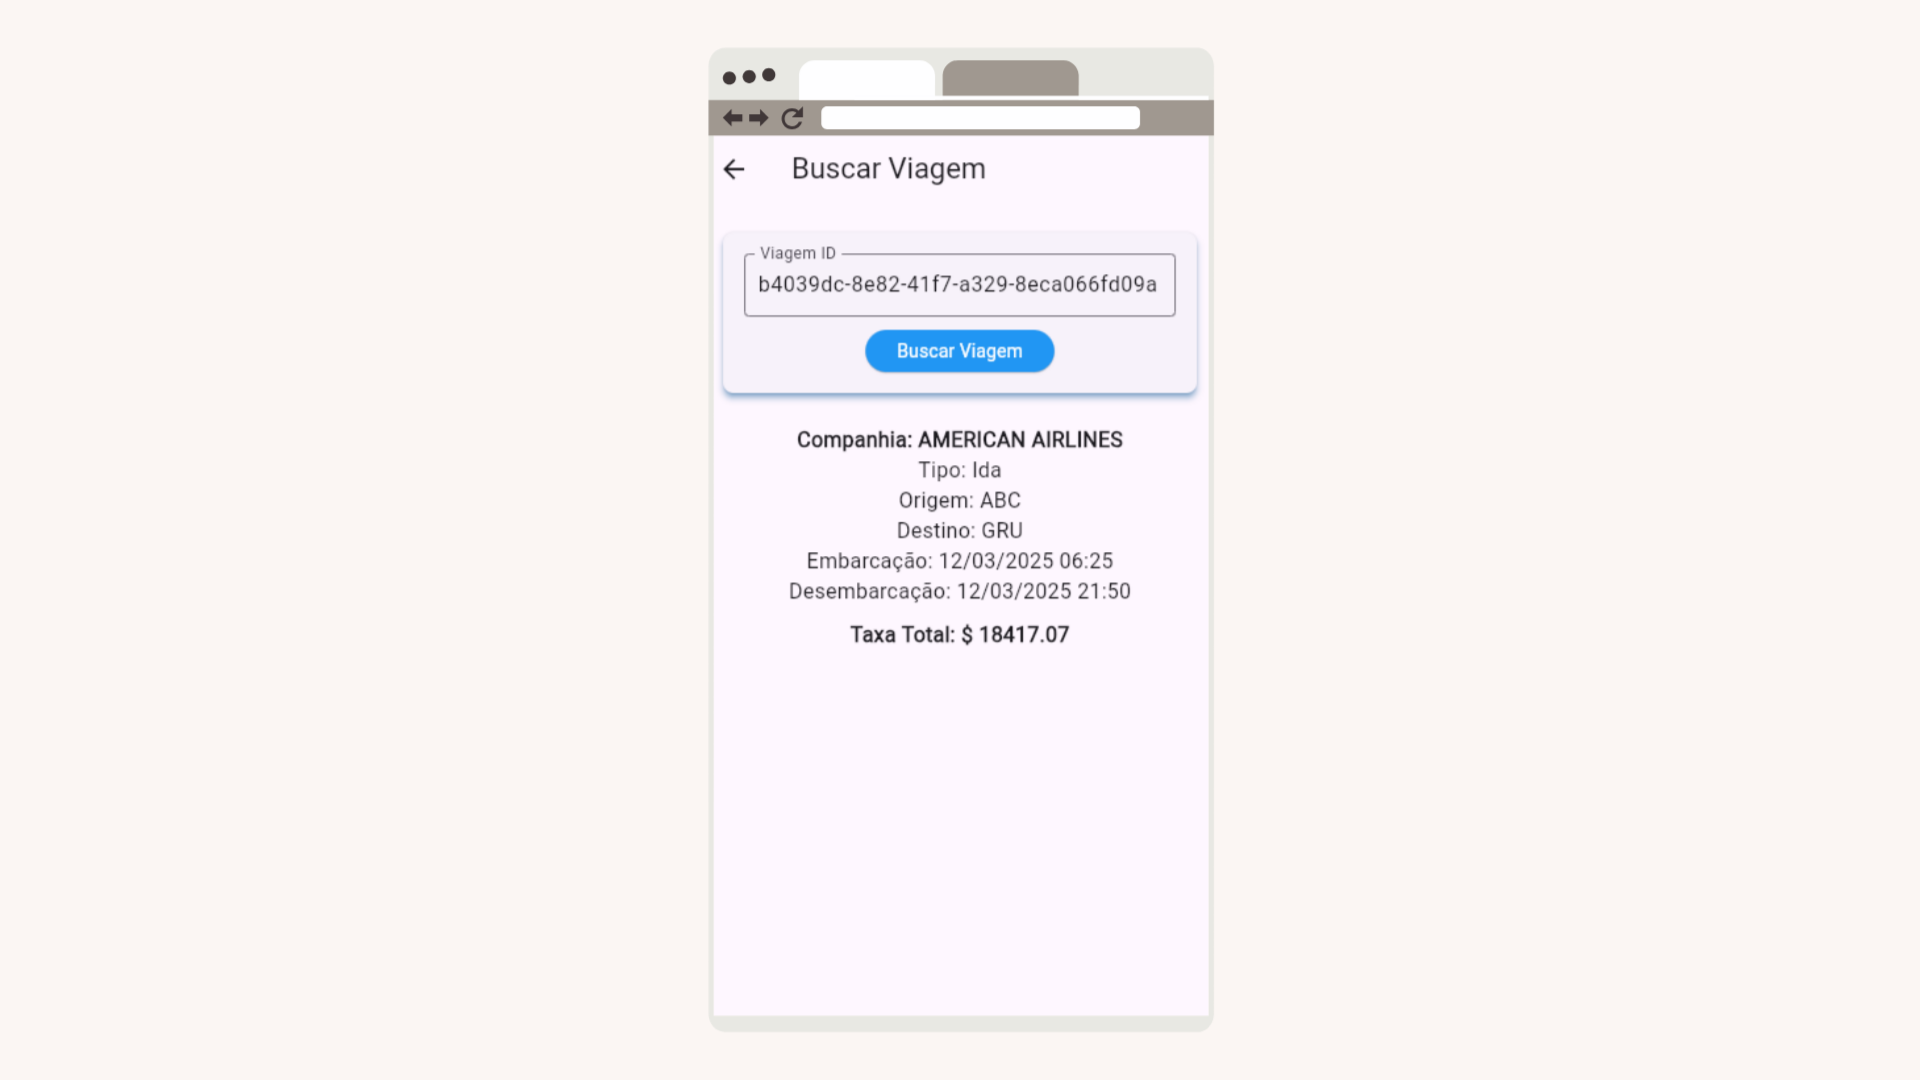
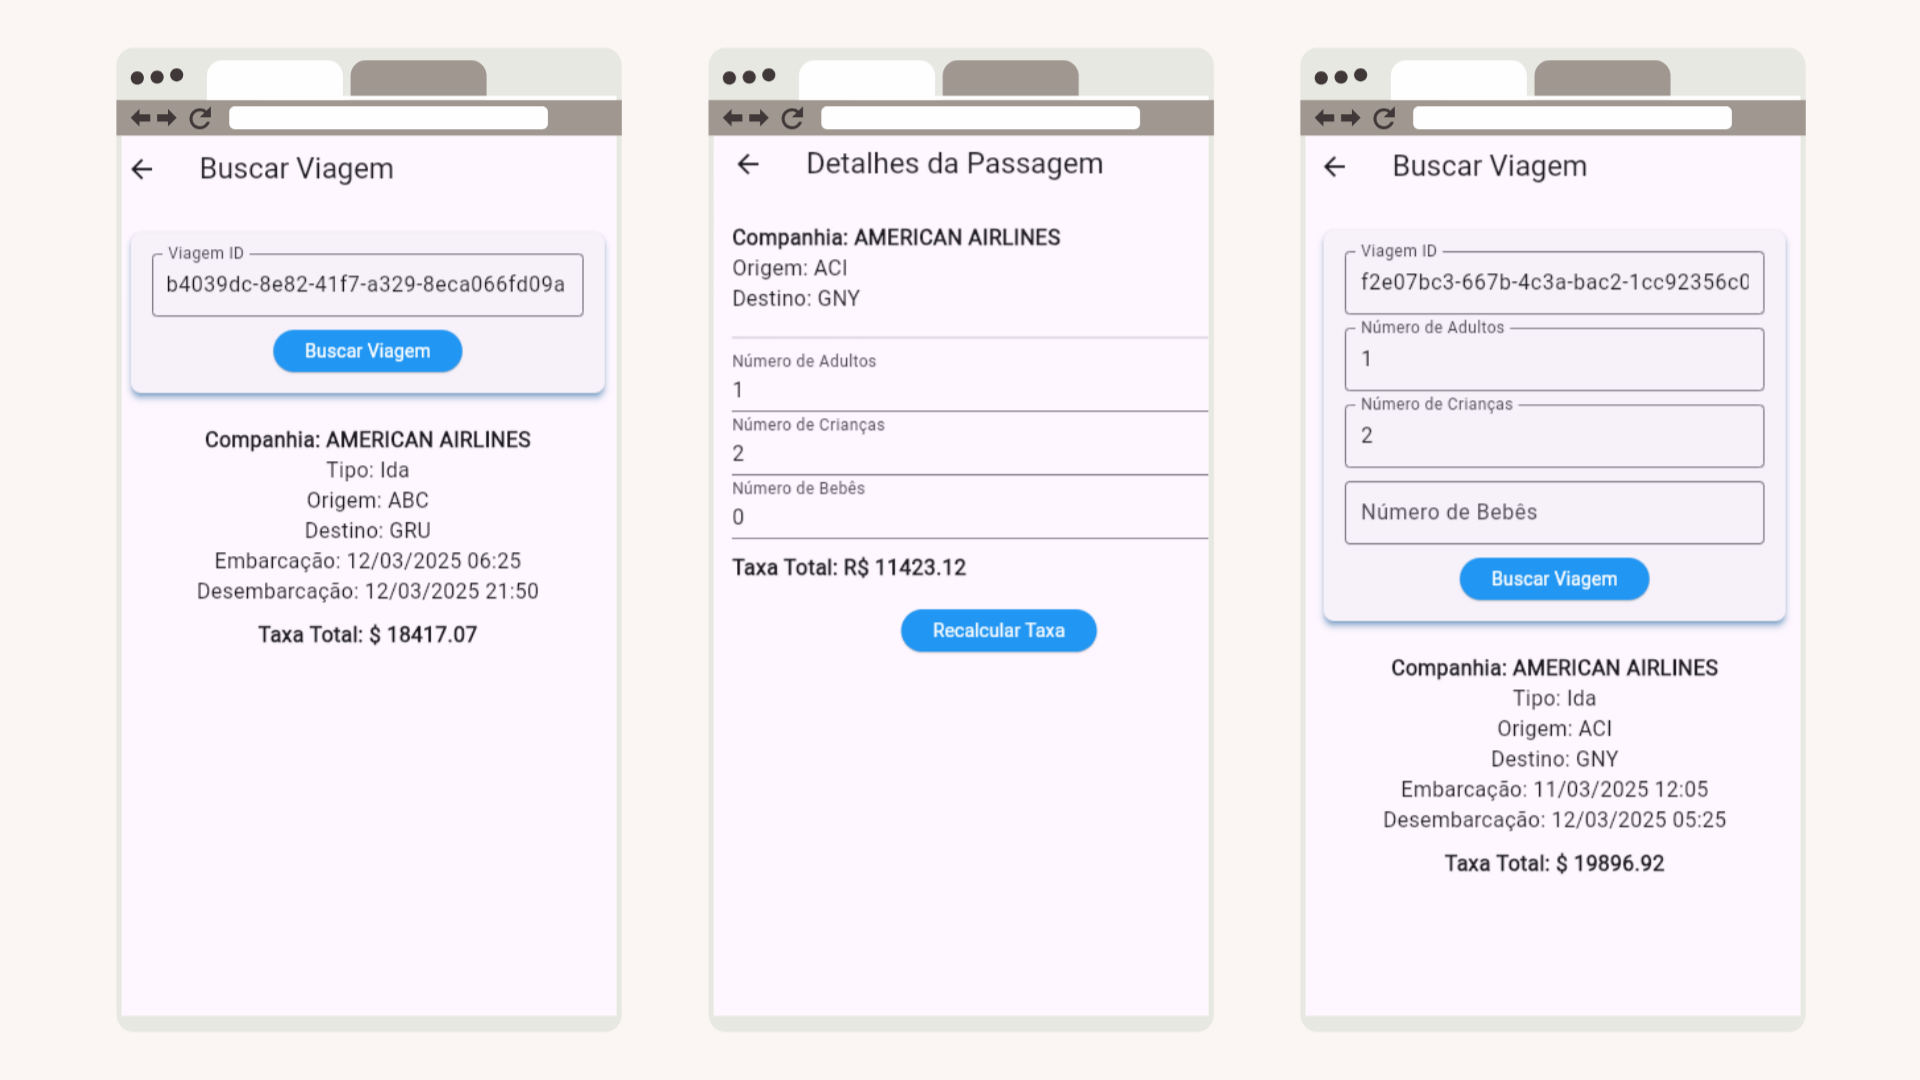
feat: implements calculate tax corrections and new fly page

diff --git a/lib/pages/ticket_page.dart b/lib/pages/ticket_page.dart
@@ -1,0 +1,139 @@
+import 'package:flutter/material.dart';
+import "../services/search_service.dart";
+import "../helpers/search_helper.dart";
+
+class TicketPage extends StatefulWidget {
+  final String travelId;
+
+  TicketPage({required this.travelId});
+
+  @override
+  _TicketPageState createState() => _TicketPageState();
+}
+
+class _TicketPageState extends State<TicketPage> {
+  Map<String, dynamic>? travel;
+  String? errorMessage;
+  double? totalTax;
+
+  final TravelService _travelService = TravelService(baseUrl: "https://buscamilhas.mock.gralmeidan.dev");
+
+  final TextEditingController _adultsController = TextEditingController(text: "1");
+  final TextEditingController _childrenController = TextEditingController(text: "0");
+  final TextEditingController _babiesController = TextEditingController(text: "0");
+
+  @override
+  void initState() {
+    super.initState();
+    _searchTravel();
+  }
+
+  Future<void> _searchTravel() async {
+    setState(() {
+      travel = null;
+      errorMessage = null;
+      totalTax = null;
+    });
+
+    try {
+      final response = await _travelService.fetchFirstItem(widget.travelId);
+
+      if (response != null) {
+        setState(() {
+          travel = response;
+          _adultsController.text = '1'; 
+          _childrenController.text = '0';
+          _babiesController.text = '0';
+          _calculateTotalTax();
+        });
+      } else {
+        setState(() {
+          errorMessage = "Erro: resposta da viagem é nula.";
+        });
+      }
+    } catch (e) {
+      setState(() {
+        errorMessage = "Erro ao buscar detalhes da viagem: ${e.toString()}";
+      });
+    }
+  }
+
+  void _calculateTotalTax() {
+    if (travel == null) return;
+
+    int numAdults = int.tryParse(_adultsController.text) ?? 1;
+    int numChildren = int.tryParse(_childrenController.text) ?? 0;
+
+    
+    var valor = travel!['Valor']?[0] ?? {};
+    
+    double valorAdulto = valor['Adulto'] ?? 0;
+    double valorCrianca = valor['Crianca'] ?? 0;
+    double taxaEmbarque = valor['TaxaEmbarque'] ?? 0;
+
+    double total = (valorAdulto * numAdults) + (valorCrianca * numChildren) + (taxaEmbarque * (numAdults + numChildren));
+
+    setState(() {
+      totalTax = total;
+    });
+  }
+
+  @override
+  Widget build(BuildContext context) {
+    return Scaffold(
+      appBar: AppBar(title: Text('Detalhes da Passagem')),
+      body: Padding(
+        padding: EdgeInsets.all(16.0),
+        child: travel == null
+            ? Center(child: errorMessage != null ? Text(errorMessage!, style: TextStyle(color: Colors.red)) : CircularProgressIndicator())
+            : Column(
+                crossAxisAlignment: CrossAxisAlignment.start,
+                children: [
+                  Text("Companhia: ${travel!['Companhia']}", style: TextStyle(fontSize: 16, fontWeight: FontWeight.bold)),
+                  Text("Origem: ${travel!['Origem']}", style: TextStyle(fontSize: 16)),
+                  Text("Destino: ${travel!['Destino']}", style: TextStyle(fontSize: 16)),
+                  SizedBox(height: 10.0),
+                  Divider(),
+
+                  TextField(
+                    controller: _adultsController,
+                    keyboardType: TextInputType.number,
+                    decoration: InputDecoration(labelText: 'Número de Adultos'),
+                    onChanged: (value) => _calculateTotalTax(),
+                  ),
+                  TextField(
+                    controller: _childrenController,
+                    keyboardType: TextInputType.number,
+                    decoration: InputDecoration(labelText: 'Número de Crianças'),
+                    onChanged: (value) => _calculateTotalTax(),
+                  ),
+                  TextField(
+                    controller: _babiesController,
+                    keyboardType: TextInputType.number,
+                    decoration: InputDecoration(labelText: 'Número de Bebês'),
+                    onChanged: (value) => _calculateTotalTax(),
+                  ),
+
+                  SizedBox(height: 10.0),
+                  Text(
+                    "Taxa Total: R\$ ${totalTax?.toStringAsFixed(2) ?? '0.00'}",
+                    style: TextStyle(fontSize: 16, fontWeight: FontWeight.bold),
+                  ),
+                  SizedBox(height: 20.0),
+                  
+                  Center(
+                    child: ElevatedButton(
+                      style: ElevatedButton.styleFrom(
+                        backgroundColor: Colors.blue,
+                        foregroundColor: Colors.white,
+                      ),
+                      onPressed: _searchTravel,
+                      child: Text('Recalcular Taxa'),
+                    ),
+                  ),
+                ],
+              ),
+      ),
+    );
+  }
+}

diff --git a/lib/pages/search_page.dart b/lib/pages/search_page.dart
@@ -9,6 +9,10 @@ class SearchPage extends StatefulWidget {
 
 class _SearchPageState extends State<SearchPage> {
   final TextEditingController _idController = TextEditingController();
+  final TextEditingController _adultsController = TextEditingController();
+  final TextEditingController _childrenController = TextEditingController();
+  final TextEditingController _babiesController = TextEditingController();
+
   Map<String, dynamic>? travel;
   String? errorMessage;
   double? totalTax;
@@ -24,15 +28,22 @@ class _SearchPageState extends State<SearchPage> {
 
     try {
       final response = await _travelService.fetchFirstItem(_idController.text);
-      setState(() {
-        travel = response;
+      
+      if (response != null) {
+        setState(() {
+          travel = response;
 
-        int numAdults = response!['QuantidadeAdultos'] ?? 1; 
-        int numChildren = response['QuantidadeCriancas'] ?? 0; 
-        int numBabies = response['QuantidadeBebes'] ?? 0;
+          int numAdults = int.tryParse(_adultsController.text) ?? 1;
+          int numChildren = int.tryParse(_childrenController.text) ?? 0;
+          int numBabies = int.tryParse(_babiesController.text) ?? 0;
 
-        totalTax = calculateTax(response['Valor'], numAdults, numChildren, numBabies);
-      });
+          totalTax = calculateTax(response['Valor'], numAdults, numChildren, numBabies);
+        });
+      } else {
+        setState(() {
+          errorMessage = "Erro: resposta da viagem é nula.";
+        });
+      }
     } catch (e) {
       setState(() {
         errorMessage = "Error fetching travel details: ${e.toString()}";
@@ -63,6 +74,48 @@ class _SearchPageState extends State<SearchPage> {
                       controller: _idController,
                       decoration: InputDecoration(
                         labelText: 'Viagem ID',
+                        border: OutlineInputBorder(
+                          borderSide: BorderSide(color: Colors.grey),
+                        ),
+                        focusedBorder: OutlineInputBorder(
+                          borderSide: BorderSide(color: Colors.blue),
+                        ),
+                      ),
+                    ),
+                    SizedBox(height: 10.0),
+                    TextField(
+                      controller: _adultsController,
+                      keyboardType: TextInputType.number,
+                      decoration: InputDecoration(
+                        labelText: 'Número de Adultos',
+                        border: OutlineInputBorder(
+                          borderSide: BorderSide(color: Colors.grey),
+                        ),
+                        focusedBorder: OutlineInputBorder(
+                          borderSide: BorderSide(color: Colors.blue),
+                        ),
+                      ),
+                    ),
+                    SizedBox(height: 10.0),
+                    TextField(
+                      controller: _childrenController,
+                      keyboardType: TextInputType.number,
+                      decoration: InputDecoration(
+                        labelText: 'Número de Crianças',
+                        border: OutlineInputBorder(
+                          borderSide: BorderSide(color: Colors.grey),
+                        ),
+                        focusedBorder: OutlineInputBorder(
+                          borderSide: BorderSide(color: Colors.blue),
+                        ),
+                      ),
+                    ),
+                    SizedBox(height: 10.0),
+                    TextField(
+                      controller: _babiesController,
+                      keyboardType: TextInputType.number,
+                      decoration: InputDecoration(
+                        labelText: 'Número de Bebês',
                         border: OutlineInputBorder(
                           borderSide: BorderSide(color: Colors.grey),
                         ),

diff --git a/lib/pages/fly_page.dart b/lib/pages/fly_page.dart
@@ -1,6 +1,7 @@
 import '../helpers/fly_helper.dart';
 import 'package:flutter/material.dart';
 import '../services/fly_service.dart';  // Certifique-se de importar o serviço corretamente
+import 'ticket_page.dart';  // Certifique-se de importar a página TicketPage
 
 class FlyPage extends StatefulWidget {
   @override
@@ -88,6 +89,16 @@ class _FlyPageState extends State<FlyPage> {
             ? 'Viagem criada com sucesso: ${response}'
             : 'Erro ao criar viagem.';
       });
+
+      if (response != null) {
+        // Navegar para a TicketPage passando o ID da viagem
+        Navigator.push(
+          context,
+          MaterialPageRoute(
+            builder: (context) => TicketPage(travelId: response),
+          ),
+        );
+      }
     }
   }
 
@@ -290,10 +301,16 @@ class _FlyPageState extends State<FlyPage> {
                       borderSide: BorderSide(color: Colors.blue),
                     ),
                   ),
+                  validator: (value) {
+                    if (_returnDate == null) {
+                      return 'Por favor, selecione a data de volta';
+                    }
+                    return null;
+                  },
                   readOnly: true,
                 ),
               ],
-              SizedBox(height: 10.0),
+              SizedBox(height: 20.0),
               Center(
                 child: ElevatedButton(
                   style: ElevatedButton.styleFrom(

diff --git a/lib/controllers/app_widget.dart b/lib/controllers/app_widget.dart
@@ -1,14 +1,27 @@
 import 'package:flutter/material.dart';
 import '../../pages/home_page.dart';
+import '../../pages/ticket_page.dart';
 
 class AppWidget extends StatelessWidget {
   @override
   Widget build(BuildContext context) {
     return MaterialApp(
       title: 'Flymigo',
-      
       debugShowCheckedModeBanner: false,
-      home: HomePage(),
+      initialRoute: '/',
+      onGenerateRoute: (settings) {
+        if (settings.name == '/voo') {
+          final args = settings.arguments as Map<String, dynamic>?;
+
+          if (args != null && args.containsKey('travelId')) {
+            return MaterialPageRoute(
+              builder: (context) => TicketPage(travelId: args['travelId']),
+            );
+          }
+        }
+
+        return MaterialPageRoute(builder: (context) => HomePage());
+      },
     );
   }
 }

diff --git a/lib/services/search_service.dart b/lib/services/search_service.dart
@@ -16,15 +16,12 @@ class TravelService {
         Map<String, dynamic> data = jsonDecode(response.body);
 
         if (data.containsKey("Voos")) {
-          print("Tipo de 'Voos': ${data["Voos"].runtimeType}");
-          print("Conteúdo de 'Voos': ${data["Voos"]}");
+          
 
           if (data["Voos"] is List && data["Voos"].isNotEmpty) {
             var firstFly = data["Voos"][0];
 
-            print("Tipo do primeiro item de 'Voos': ${firstFly.runtimeType}");
-            print("Conteúdo do primeiro item de 'Voos': $firstFly");
-
+            
             if (firstFly is Map<String, dynamic>) {
               return firstFly;
             } else {

diff --git a/lib/helpers/search_helper.dart b/lib/helpers/search_helper.dart
@@ -11,7 +11,7 @@ double calculateTax(List<dynamic> valores, int qtdAdultos, int qtdCriancas, int 
     double precoBebe = valor["Bebe"] ?? 0.0; 
     double taxaEmbarque = valor["TaxaEmbarque"] ?? 0.0; 
 
-    total += (precoAdulto * qtdAdultos) + (precoCrianca * qtdCriancas) + (precoBebe * qtdBebes) + (taxaEmbarque * (qtdAdultos + qtdCriancas + qtdBebes));
+    total = (precoAdulto * qtdAdultos) + (precoCrianca * qtdCriancas) + (precoBebe * qtdBebes) + (taxaEmbarque * (qtdAdultos + qtdCriancas + qtdBebes));
   }
 
   return total;
